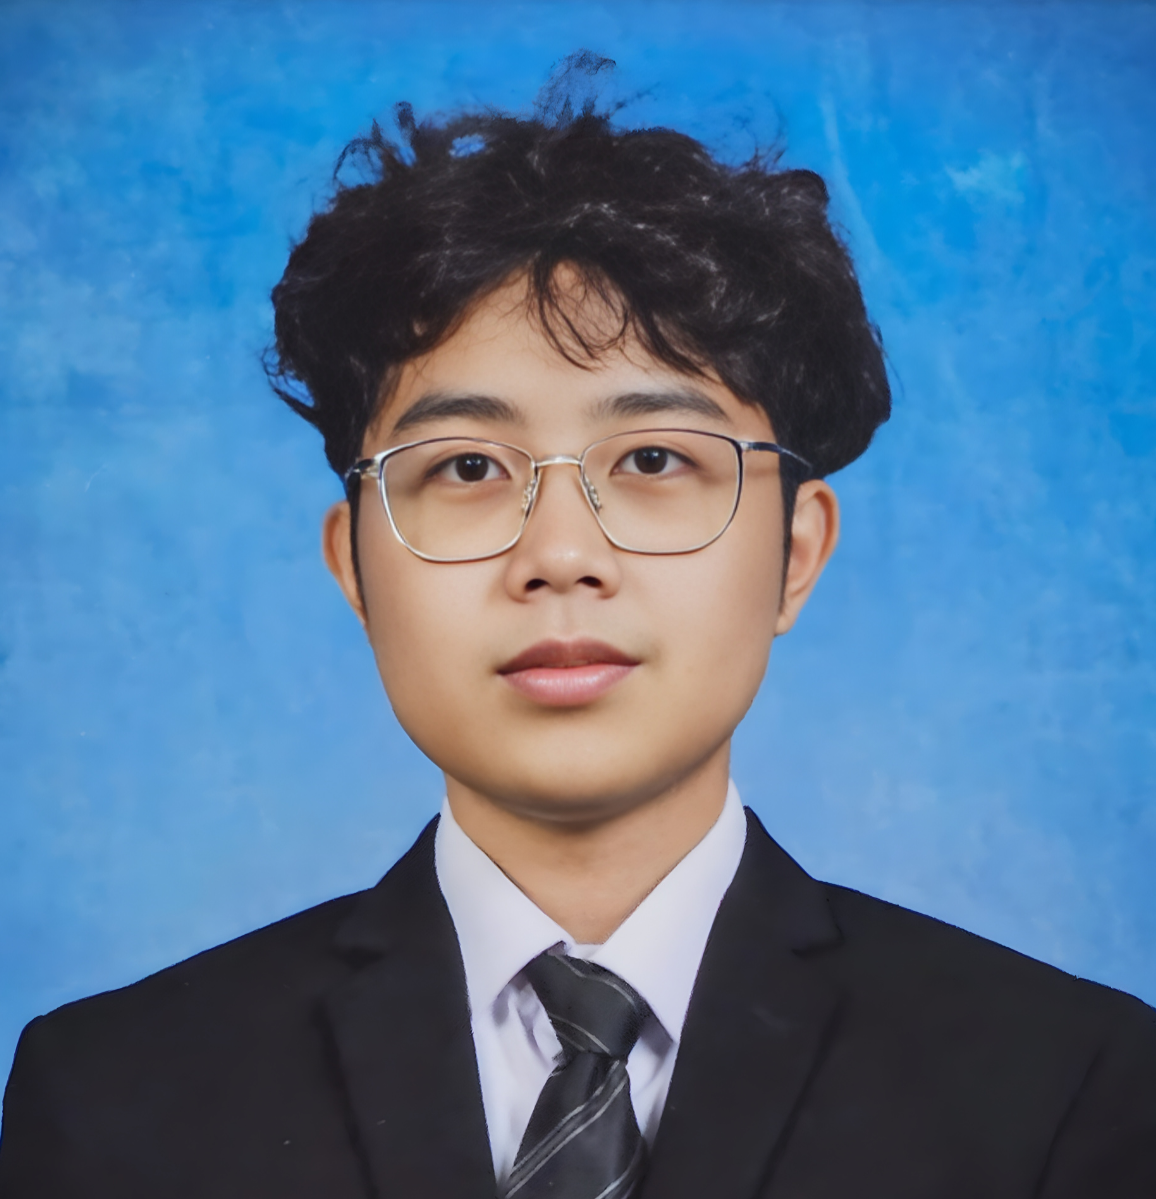
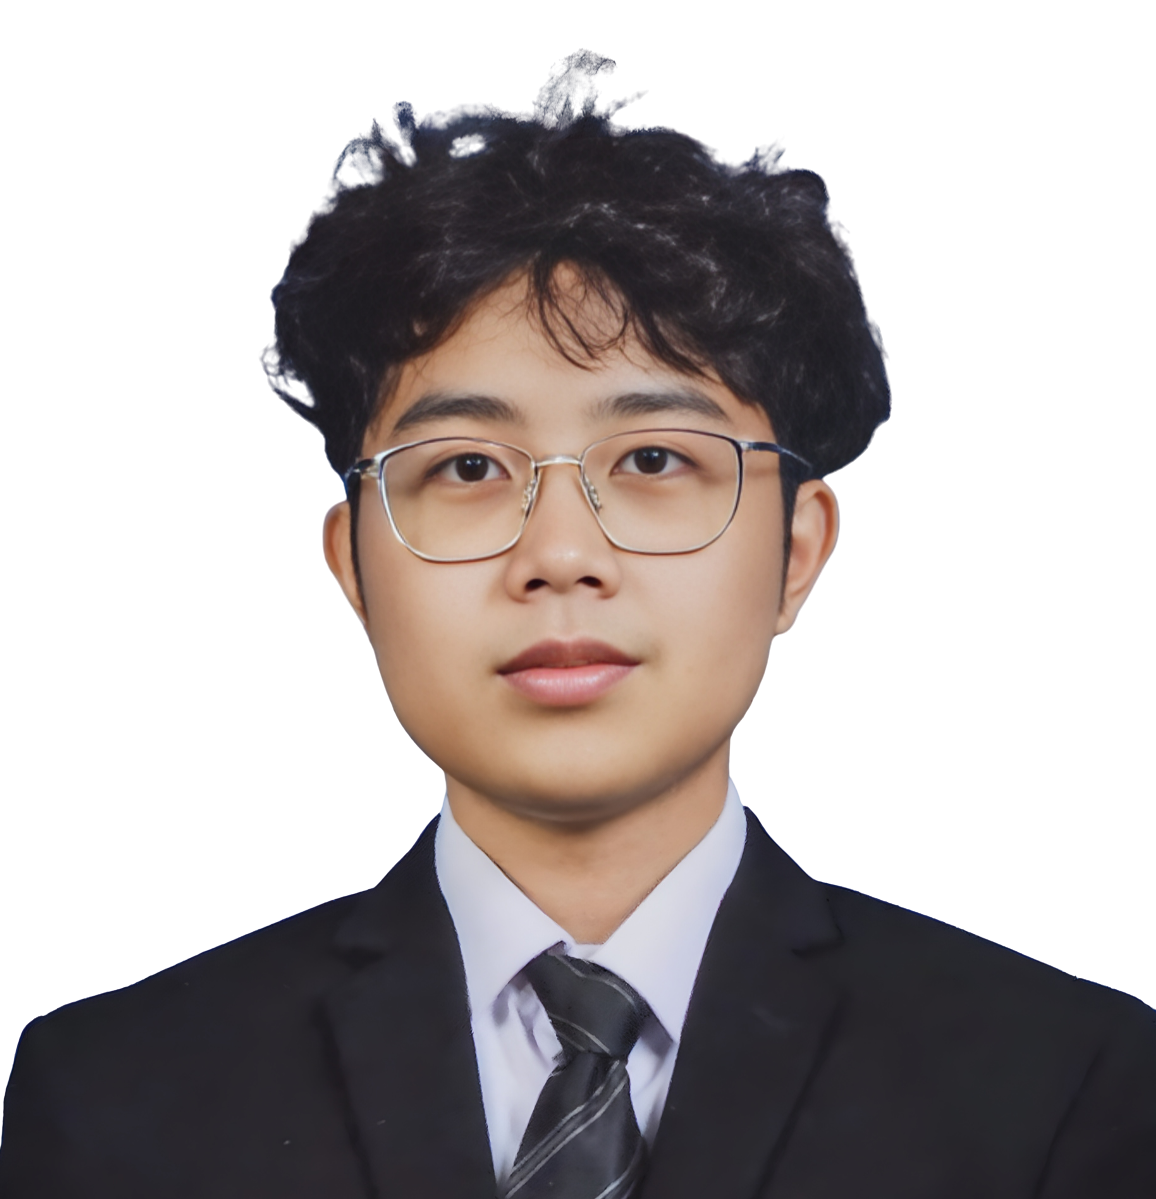
Adding education section

diff --git a/templates/index.html b/templates/index.html
@@ -15,6 +15,7 @@
             <a href="#profile" class="brand">Gde Maharta Putra Wicaksana Ridjasa</a>
             <nav>
                 <a href="#profile">Profile</a>
+                <a href="#education">Education</a>
             </nav>
             
         </div>
@@ -58,6 +59,37 @@
                 </div>
             </div>
         </section>
+
+        <section class="hero" id="education">
+            <div class="container">
+                <div class="hero-identity">
+                    <h1>Education</h1>
+                </div>
+                <div class="education-list">
+                    <div class="education-item">
+                        <p class="education-year">2025 &ndash; Present</p>
+                        <h2>Universitas Indonesia</h2>
+                        <p class="education-detail">Information System Undergraduate, Faculty of Computer Science </br>(Current GPA: 3.82/4.0)</p>
+                    </div>
+                    <div class="education-item">
+                        <p class="education-year">2022 &ndash; 2025</p>
+                        <h2>Kolese Kanisius Senior High School</h2>
+                        <p class="education-detail">Natural Sciences </br>(Final Grade: 92.09)</p>
+                    </div>
+                    <div class="education-item">
+                        <p class="education-year">2019 &ndash; 2022</p>
+                        <h2>Kolese Kanisius Junior High School</h2>
+                        <p class="education-detail">...</p>
+                    </div>
+                    <div class="education-item">
+                        <p class="education-year">2013 &ndash; 2019</p>
+                        <h2>SDK 4 Penabur</h2>
+                        <p class="education-detail">...</p>
+                    </div>
+                </div>
+            </div>
+        </section>
+
     </main>
 
     <footer class="site-footer">

diff --git a/static/css/style.css b/static/css/style.css
@@ -212,6 +212,55 @@ h1, .brand {
     border: 3px solid var(--ink);
 }
 
+/* Education section */
+.education-list {
+    display: flex;
+    flex-direction: column;
+    gap: 3rem;
+    padding: 4rem 0 4rem 3.5rem;
+}
+
+.education-item {
+    padding: 1.5rem;
+    border-left: 3px solid var(--line);
+    animation: educationPulse linear forwards;
+    animation-timeline: view();
+    animation-range: entry 0% cover 50%;
+}
+
+@keyframes educationPulse {
+    0% {
+        opacity: 0.4;
+        transform: scale(0.9);
+        border-color: var(--line);
+    }
+    100% {
+        opacity: 1;
+        transform: scale(1.08);
+        border-color: var(--accent);
+    }
+}
+
+.education-year {
+    font-size: 0.8rem;
+    text-transform: uppercase;
+    letter-spacing: 0.06em;
+    color: var(--accent-dark);
+    font-weight: 700;
+    margin-bottom: 0.5rem;
+}
+
+.education-item h2 {
+    font-family: "Space Grotesk", sans-serif;
+    font-size: 1.5rem;
+    margin-bottom: 0.35rem;
+}
+
+.education-detail {
+    color: var(--text-muted);
+    font-size: 0.95rem;
+}
+
 /* Footer & Responsive */
 
 .site-footer {
